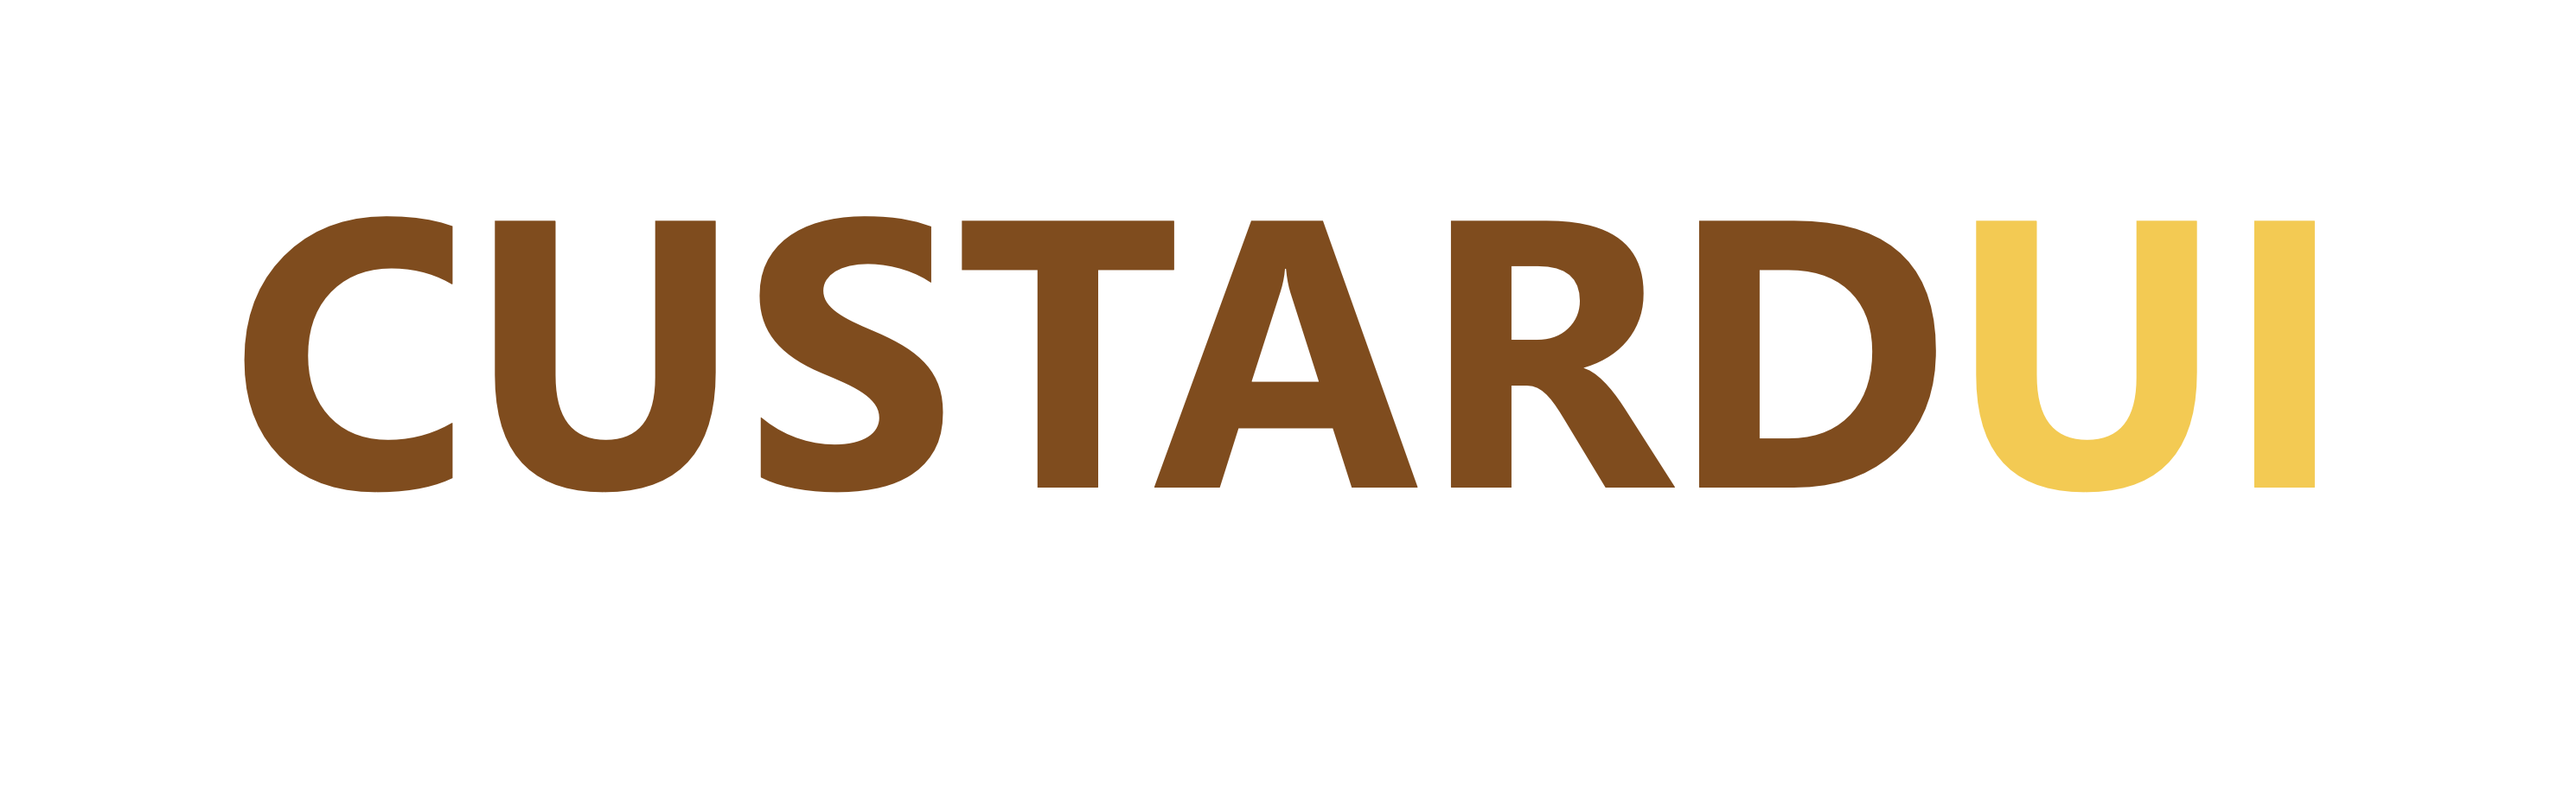
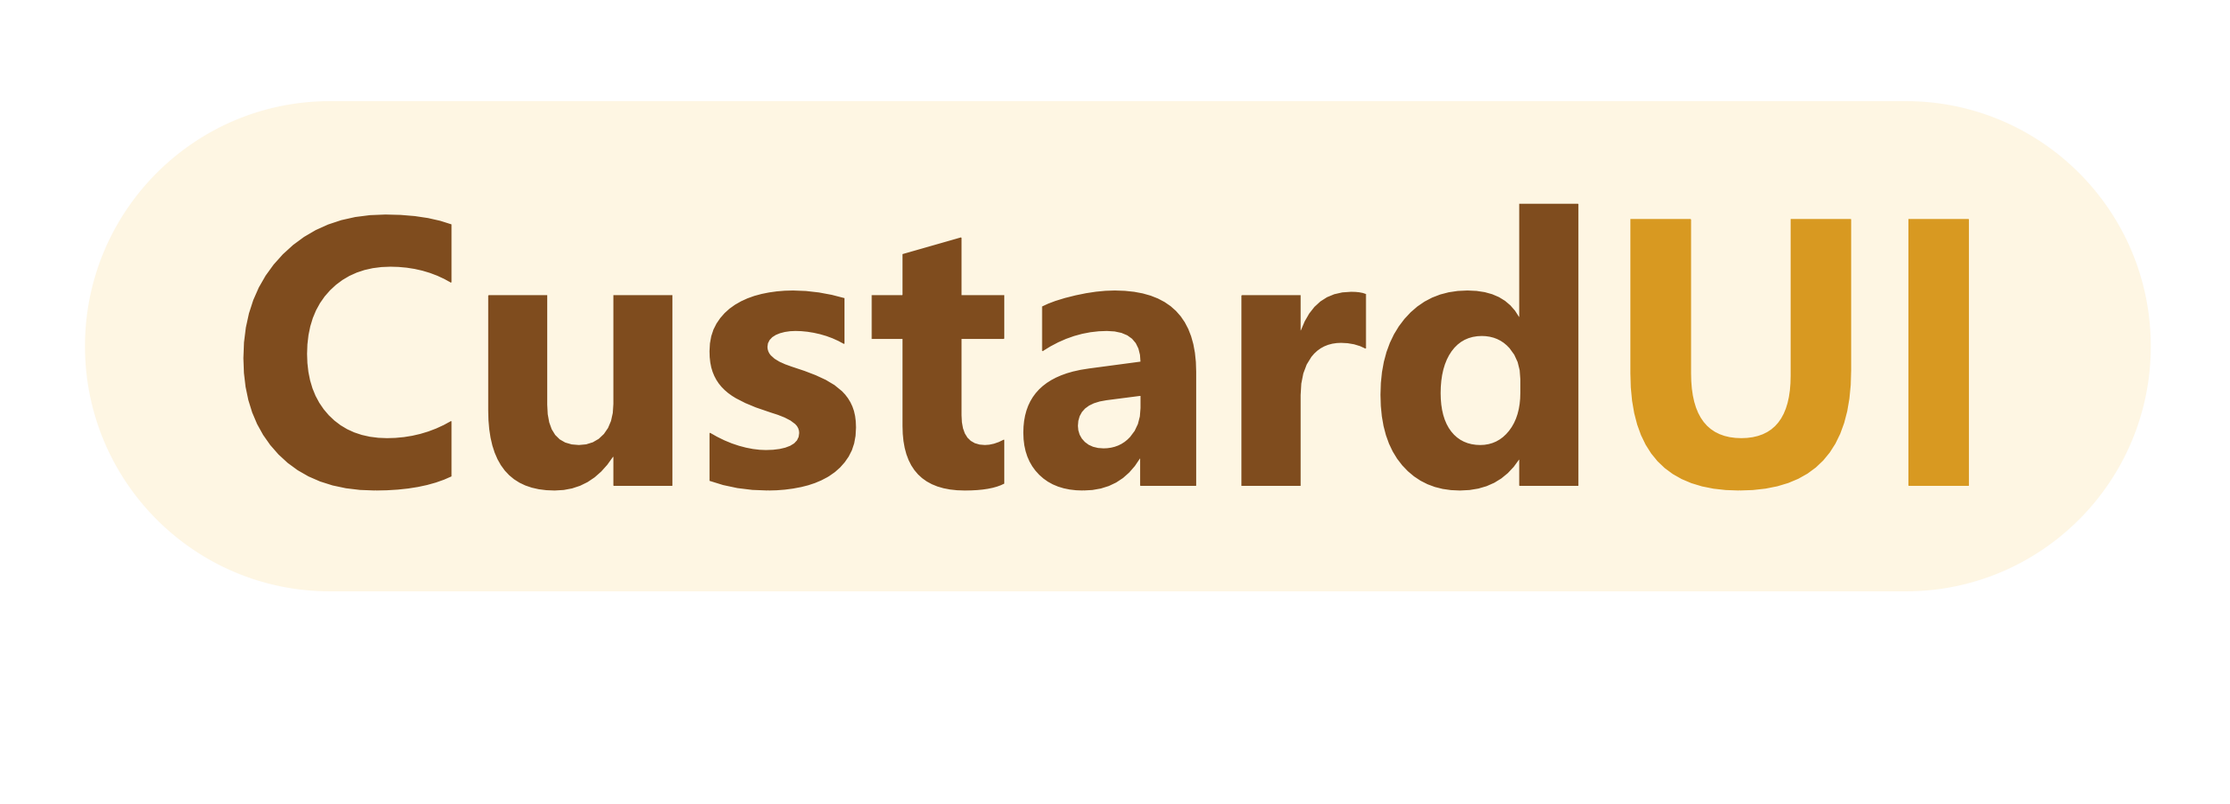
docs: Update header bar

diff --git a/docs/_markbind/layouts/icons/IconGear.md b/docs/_markbind/layouts/icons/IconGear.md
@@ -1,0 +1,22 @@
+
+<div><svg
+  fill="currentColor"
+  viewBox="0 0 24 24"
+  xmlns="http://www.w3.org/2000/svg"
+  width="1.2em"
+  height="1.2em"
+  style="vertical-align: middle;"
+>
+  <path
+    fill-rule="evenodd"
+    clip-rule="evenodd"
+    d="M12 8.00002C9.79085 8.00002 7.99999 9.79088 7.99999 12C7.99999 14.2092 9.79085 16 12 16C14.2091 16 16 14.2092 16 12C16 9.79088 14.2091 8.00002 12 8.00002ZM9.99999 12C9.99999 10.8955 10.8954 10 12 10C13.1046 10 14 10.8955 14 12C14 13.1046 13.1046 14 12 14C10.8954 14 9.99999 13.1046 9.99999 12Z"
+    fill="currentColor"
+  />
+  <path
+    fill-rule="evenodd"
+    clip-rule="evenodd"
+    d="M10.7673 1.01709C10.9925 0.999829 11.2454 0.99993 11.4516 1.00001L12.5484 1.00001C12.7546 0.99993 13.0075 0.999829 13.2327 1.01709C13.4989 1.03749 13.8678 1.08936 14.2634 1.26937C14.7635 1.49689 15.1915 1.85736 15.5007 2.31147C15.7454 2.67075 15.8592 3.0255 15.9246 3.2843C15.9799 3.50334 16.0228 3.75249 16.0577 3.9557L16.1993 4.77635L16.2021 4.77788C16.2369 4.79712 16.2715 4.81659 16.306 4.8363L16.3086 4.83774L17.2455 4.49865C17.4356 4.42978 17.6693 4.34509 17.8835 4.28543C18.1371 4.2148 18.4954 4.13889 18.9216 4.17026C19.4614 4.20998 19.9803 4.39497 20.4235 4.70563C20.7734 4.95095 21.0029 5.23636 21.1546 5.4515C21.2829 5.63326 21.4103 5.84671 21.514 6.02029L22.0158 6.86003C22.1256 7.04345 22.2594 7.26713 22.3627 7.47527C22.4843 7.7203 22.6328 8.07474 22.6777 8.52067C22.7341 9.08222 22.6311 9.64831 22.3803 10.1539C22.1811 10.5554 21.9171 10.8347 21.7169 11.0212C21.5469 11.1795 21.3428 11.3417 21.1755 11.4746L20.5 12L21.1755 12.5254C21.3428 12.6584 21.5469 12.8205 21.7169 12.9789C21.9171 13.1653 22.1811 13.4446 22.3802 13.8461C22.631 14.3517 22.7341 14.9178 22.6776 15.4794C22.6328 15.9253 22.4842 16.2797 22.3626 16.5248C22.2593 16.7329 22.1255 16.9566 22.0158 17.14L21.5138 17.9799C21.4102 18.1535 21.2828 18.3668 21.1546 18.5485C21.0028 18.7637 20.7734 19.0491 20.4234 19.2944C19.9803 19.6051 19.4613 19.7901 18.9216 19.8298C18.4954 19.8612 18.1371 19.7852 17.8835 19.7146C17.6692 19.6549 17.4355 19.5703 17.2454 19.5014L16.3085 19.1623L16.306 19.1638C16.2715 19.1835 16.2369 19.2029 16.2021 19.2222L16.1993 19.2237L16.0577 20.0443C16.0228 20.2475 15.9799 20.4967 15.9246 20.7157C15.8592 20.9745 15.7454 21.3293 15.5007 21.6886C15.1915 22.1427 14.7635 22.5032 14.2634 22.7307C13.8678 22.9107 13.4989 22.9626 13.2327 22.983C13.0074 23.0002 12.7546 23.0001 12.5484 23H11.4516C11.2454 23.0001 10.9925 23.0002 10.7673 22.983C10.5011 22.9626 10.1322 22.9107 9.73655 22.7307C9.23648 22.5032 8.80849 22.1427 8.49926 21.6886C8.25461 21.3293 8.14077 20.9745 8.07542 20.7157C8.02011 20.4967 7.97723 20.2475 7.94225 20.0443L7.80068 19.2237L7.79791 19.2222C7.7631 19.2029 7.72845 19.1835 7.69396 19.1637L7.69142 19.1623L6.75458 19.5014C6.5645 19.5702 6.33078 19.6549 6.11651 19.7146C5.86288 19.7852 5.50463 19.8611 5.07841 19.8298C4.53866 19.7901 4.01971 19.6051 3.57654 19.2944C3.2266 19.0491 2.99714 18.7637 2.84539 18.5485C2.71718 18.3668 2.58974 18.1534 2.4861 17.9798L1.98418 17.14C1.87447 16.9566 1.74067 16.7329 1.63737 16.5248C1.51575 16.2797 1.36719 15.9253 1.32235 15.4794C1.26588 14.9178 1.36897 14.3517 1.61976 13.8461C1.81892 13.4446 2.08289 13.1653 2.28308 12.9789C2.45312 12.8205 2.65717 12.6584 2.82449 12.5254L3.47844 12.0054V11.9947L2.82445 11.4746C2.65712 11.3417 2.45308 11.1795 2.28304 11.0212C2.08285 10.8347 1.81888 10.5554 1.61972 10.1539C1.36893 9.64832 1.26584 9.08224 1.3223 8.52069C1.36714 8.07476 1.51571 7.72032 1.63732 7.47528C1.74062 7.26715 1.87443 7.04347 1.98414 6.86005L2.48605 6.02026C2.58969 5.84669 2.71714 5.63326 2.84534 5.45151C2.9971 5.23637 3.22655 4.95096 3.5765 4.70565C4.01966 4.39498 4.53862 4.20999 5.07837 4.17027C5.50458 4.1389 5.86284 4.21481 6.11646 4.28544C6.33072 4.34511 6.56444 4.4298 6.75451 4.49867L7.69141 4.83775L7.69394 4.8363C7.72844 4.8166 7.7631 4.79712 7.79791 4.77788L7.80068 4.77635L7.94225 3.95571C7.97723 3.7525 8.02011 3.50334 8.07542 3.2843C8.14077 3.0255 8.25461 2.67075 8.49926 2.31147C8.80849 1.85736 9.23648 1.49689 9.73655 1.26937C10.1322 1.08936 10.5011 1.03749 10.7673 1.01709ZM14.0938 4.3363C14.011 3.85634 13.9696 3.61637 13.8476 3.43717C13.7445 3.2858 13.6019 3.16564 13.4352 3.0898C13.2378 3.00002 12.9943 3.00002 12.5073 3.00002H11.4927C11.0057 3.00002 10.7621 3.00002 10.5648 3.0898C10.3981 3.16564 10.2555 3.2858 10.1524 3.43717C10.0304 3.61637 9.98895 3.85634 9.90615 4.3363L9.75012 5.24064C9.69445 5.56333 9.66662 5.72467 9.60765 5.84869C9.54975 5.97047 9.50241 6.03703 9.40636 6.13166C9.30853 6.22804 9.12753 6.3281 8.76554 6.52822C8.73884 6.54298 8.71227 6.55791 8.68582 6.57302C8.33956 6.77078 8.16643 6.86966 8.03785 6.90314C7.91158 6.93602 7.83293 6.94279 7.70289 6.93196C7.57049 6.92094 7.42216 6.86726 7.12551 6.7599L6.11194 6.39308C5.66271 6.2305 5.43809 6.14921 5.22515 6.16488C5.04524 6.17811 4.87225 6.23978 4.72453 6.34333C4.5497 6.46589 4.42715 6.67094 4.18206 7.08103L3.72269 7.84965C3.46394 8.2826 3.33456 8.49907 3.31227 8.72078C3.29345 8.90796 3.32781 9.09665 3.41141 9.26519C3.51042 9.4648 3.7078 9.62177 4.10256 9.9357L4.82745 10.5122C5.07927 10.7124 5.20518 10.8126 5.28411 10.9199C5.36944 11.036 5.40583 11.1114 5.44354 11.2504C5.47844 11.379 5.47844 11.586 5.47844 12C5.47844 12.414 5.47844 12.621 5.44354 12.7497C5.40582 12.8887 5.36944 12.9641 5.28413 13.0801C5.20518 13.1875 5.07927 13.2876 4.82743 13.4879L4.10261 14.0643C3.70785 14.3783 3.51047 14.5352 3.41145 14.7349C3.32785 14.9034 3.29349 15.0921 3.31231 15.2793C3.33461 15.501 3.46398 15.7174 3.72273 16.1504L4.1821 16.919C4.4272 17.3291 4.54974 17.5342 4.72457 17.6567C4.8723 17.7603 5.04528 17.8219 5.2252 17.8352C5.43813 17.8508 5.66275 17.7695 6.11199 17.607L7.12553 17.2402C7.42216 17.1328 7.5705 17.0791 7.7029 17.0681C7.83294 17.0573 7.91159 17.064 8.03786 17.0969C8.16644 17.1304 8.33956 17.2293 8.68582 17.427C8.71228 17.4421 8.73885 17.4571 8.76554 17.4718C9.12753 17.6719 9.30853 17.772 9.40635 17.8684C9.50241 17.963 9.54975 18.0296 9.60765 18.1514C9.66662 18.2754 9.69445 18.4367 9.75012 18.7594L9.90615 19.6637C9.98895 20.1437 10.0304 20.3837 10.1524 20.5629C10.2555 20.7142 10.3981 20.8344 10.5648 20.9102C10.7621 21 11.0057 21 11.4927 21H12.5073C12.9943 21 13.2378 21 13.4352 20.9102C13.6019 20.8344 13.7445 20.7142 13.8476 20.5629C13.9696 20.3837 14.011 20.1437 14.0938 19.6637L14.2499 18.7594C14.3055 18.4367 14.3334 18.2754 14.3923 18.1514C14.4502 18.0296 14.4976 17.963 14.5936 17.8684C14.6915 17.772 14.8725 17.6719 15.2344 17.4718C15.2611 17.4571 15.2877 17.4421 15.3141 17.427C15.6604 17.2293 15.8335 17.1304 15.9621 17.0969C16.0884 17.064 16.167 17.0573 16.2971 17.0681C16.4295 17.0791 16.5778 17.1328 16.8744 17.2402L17.888 17.607C18.3372 17.7696 18.5619 17.8509 18.7748 17.8352C18.9547 17.8219 19.1277 17.7603 19.2754 17.6567C19.4502 17.5342 19.5728 17.3291 19.8179 16.919L20.2773 16.1504C20.536 15.7175 20.6654 15.501 20.6877 15.2793C20.7065 15.0921 20.6721 14.9034 20.5885 14.7349C20.4895 14.5353 20.2921 14.3783 19.8974 14.0643L19.1726 13.4879C18.9207 13.2876 18.7948 13.1875 18.7159 13.0801C18.6306 12.9641 18.5942 12.8887 18.5564 12.7497C18.5215 12.6211 18.5215 12.414 18.5215 12C18.5215 11.586 18.5215 11.379 18.5564 11.2504C18.5942 11.1114 18.6306 11.036 18.7159 10.9199C18.7948 10.8126 18.9207 10.7124 19.1725 10.5122L19.8974 9.9357C20.2922 9.62176 20.4896 9.46479 20.5886 9.26517C20.6722 9.09664 20.7065 8.90795 20.6877 8.72076C20.6654 8.49906 20.5361 8.28259 20.2773 7.84964L19.8179 7.08102C19.5728 6.67093 19.4503 6.46588 19.2755 6.34332C19.1277 6.23977 18.9548 6.1781 18.7748 6.16486C18.5619 6.14919 18.3373 6.23048 17.888 6.39307L16.8745 6.75989C16.5778 6.86725 16.4295 6.92093 16.2971 6.93195C16.167 6.94278 16.0884 6.93601 15.9621 6.90313C15.8335 6.86965 15.6604 6.77077 15.3142 6.57302C15.2877 6.55791 15.2611 6.54298 15.2345 6.52822C14.8725 6.3281 14.6915 6.22804 14.5936 6.13166C14.4976 6.03703 14.4502 5.97047 14.3923 5.84869C14.3334 5.72467 14.3055 5.56332 14.2499 5.24064L14.0938 4.3363Z"
+    fill="currentColor"
+  />
+</svg></div>

diff --git a/docs/_markbind/layouts/headers/header.md b/docs/_markbind/layouts/headers/header.md
@@ -13,9 +13,9 @@ For the latest stable release, visit [here](https://custardui.github.io).**</md>
     <li><a highlight-on="sibling-or-child" href="{{baseUrl}}/authorGuide/index.html" class="nav-link">AUTHOR GUIDE</a></li>
     <li><a highlight-on="sibling-or-child" href="{{baseUrl}}/devGuide/index.html" class="nav-link">DEVELOPER GUIDE</a></li>
     <li><a highlight-on="exact" href="{{baseUrl}}/about.html" class="nav-link">ABOUT</a></li>
+    <li><a highlight-on="none" href="#cv-open" class="nav-link"><include src="icons/IconGear.md" /></a></li>
+    <li><a highlight-on="none" href="#cv-share" class="nav-link"><include src="icons/IconShare.md" /></a></li>
     <li><a href="https://github.com/custardui/custardui" target="_blank" class="nav-link"><md>:fab-github:</md></a></li>
-    <li><a highlight-on="none" href="#cv-open" class="nav-link">Settings</a></li>
-    <li><a highlight-on="none" href="#cv-share" class="nav-link">Share</a></li>
     <li slot="right">
       <form class="navbar-form">
         <searchbar :data="searchData" placeholder="Search" :on-hit="searchCallback" menu-align-right></searchbar>

diff --git a/docs/_markbind/layouts/icons/IconShare.md b/docs/_markbind/layouts/icons/IconShare.md
@@ -1,0 +1,16 @@
+
+<div><svg
+  xmlns="http://www.w3.org/2000/svg"
+  width="1.2em"
+  height="1.2em"
+  viewBox="0 0 24 24"
+  fill="currentColor"
+  style="vertical-align: middle;"
+>
+  <path
+    d="M18 8h-2a1 1 0 0 0 0 2h2v8H6v-8h2a1 1 0 0 0 0-2H6a2 2 0 0 0-2 2v8a2 2 0 0 0 2 2h12a2 2 0 0 0 2-2v-8a2 2 0 0 0-2-2z"
+  />
+  <path
+    d="M11 6.41V12a1 1 0 0 0 2 0V6.41l1.29 1.3a1 1 0 0 0 1.42 0a1 1 0 0 0 0-1.42l-3-3a1 1 0 0 0-1.42 0l-3 3a1 1 0 1 0 1.42 1.42L11 6.41z"
+  />
+</svg></div>

diff --git a/docs/index.md b/docs/index.md
@@ -4,7 +4,7 @@
 
 <div class="cv-hero-badge">✦ Open Source · Lightweight · Framework-Agnostic</div>
 
-<img src="{{baseUrl}}/images/custardUI.png" height="100">
+<h1 class="display-3"><md>**CustardUI**</md></h1>
 
 <div class="lead">
 

diff --git a/docs/design.md b/docs/design.md
@@ -7,4 +7,12 @@
 --custard-light-brown: #C4853A;
 --custard-muted: #9A7355;
 
+
+## Word Colors
+
+--custardWord: #7f4c1e;
+--UIWord: #d79921;
+--CustardUIBackground: #fef6e3;
+
+
 ![colors](images/colors.jpg)
